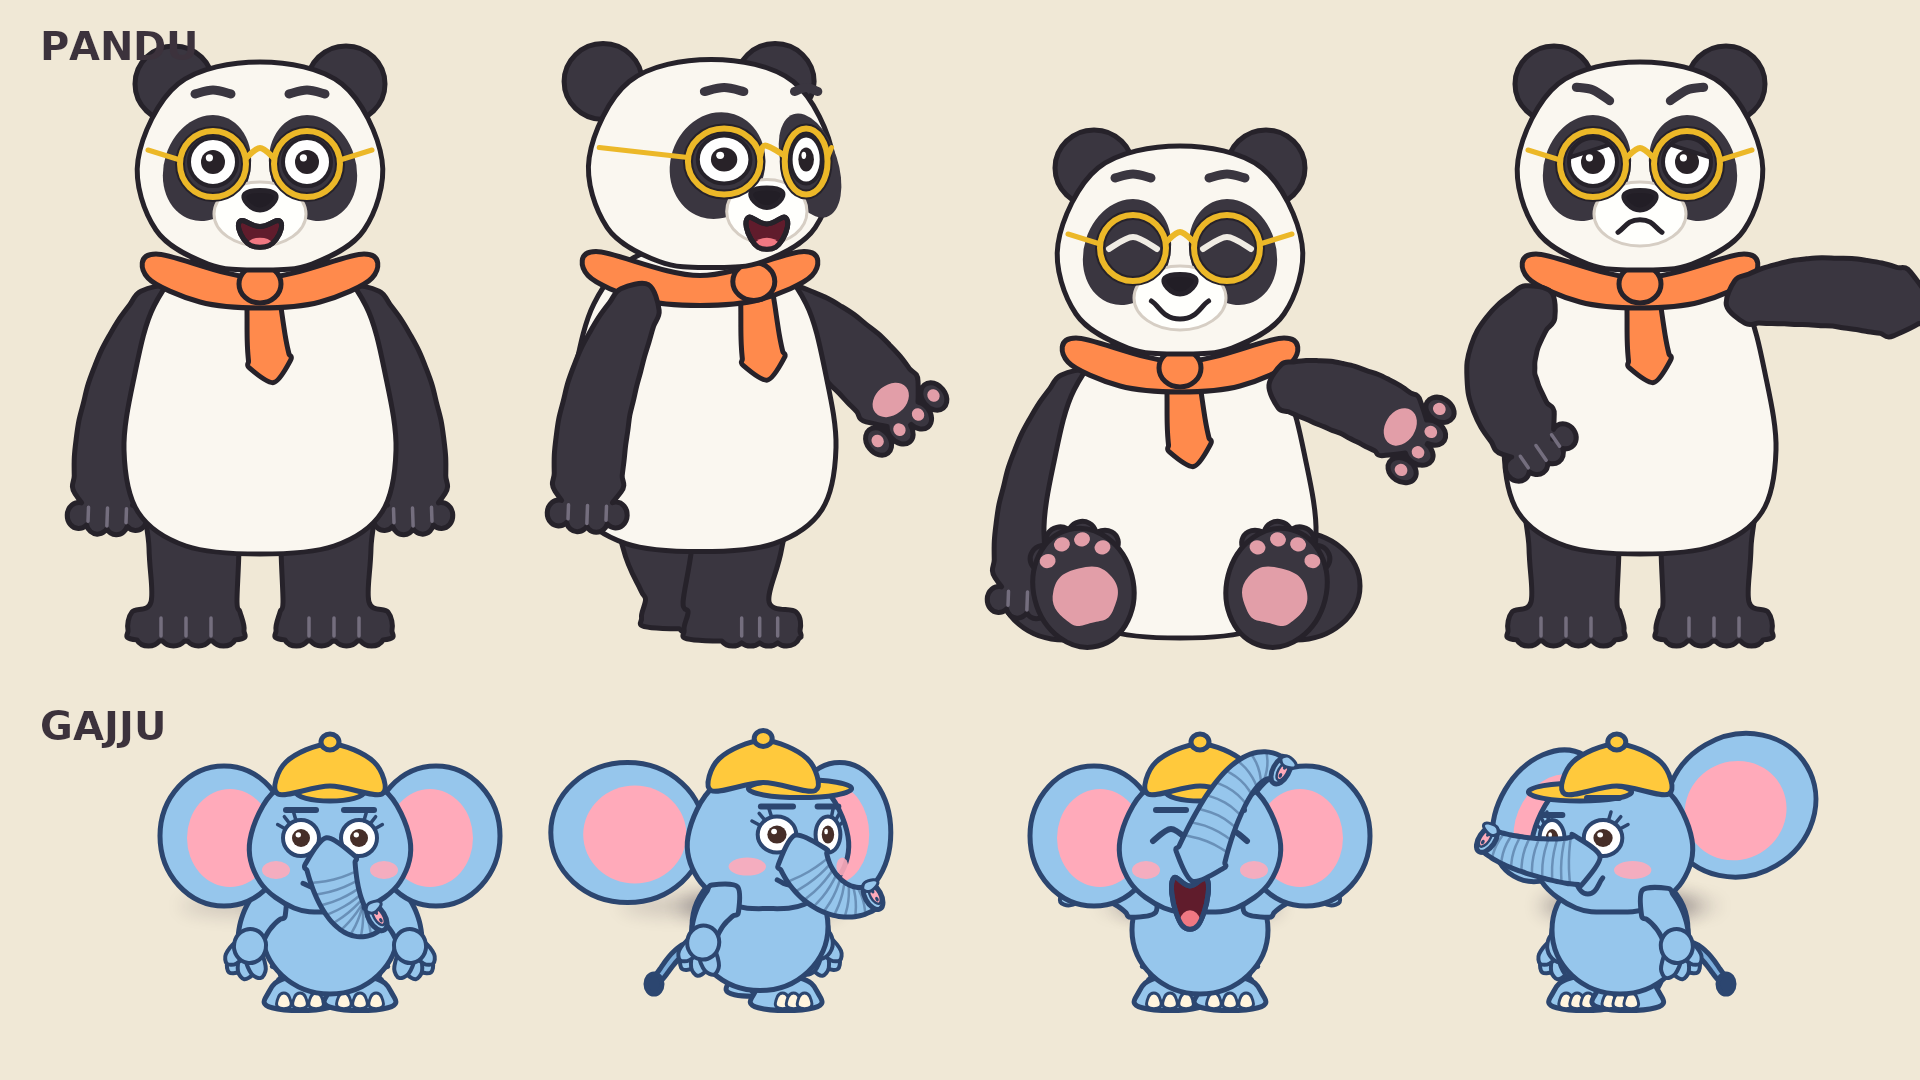
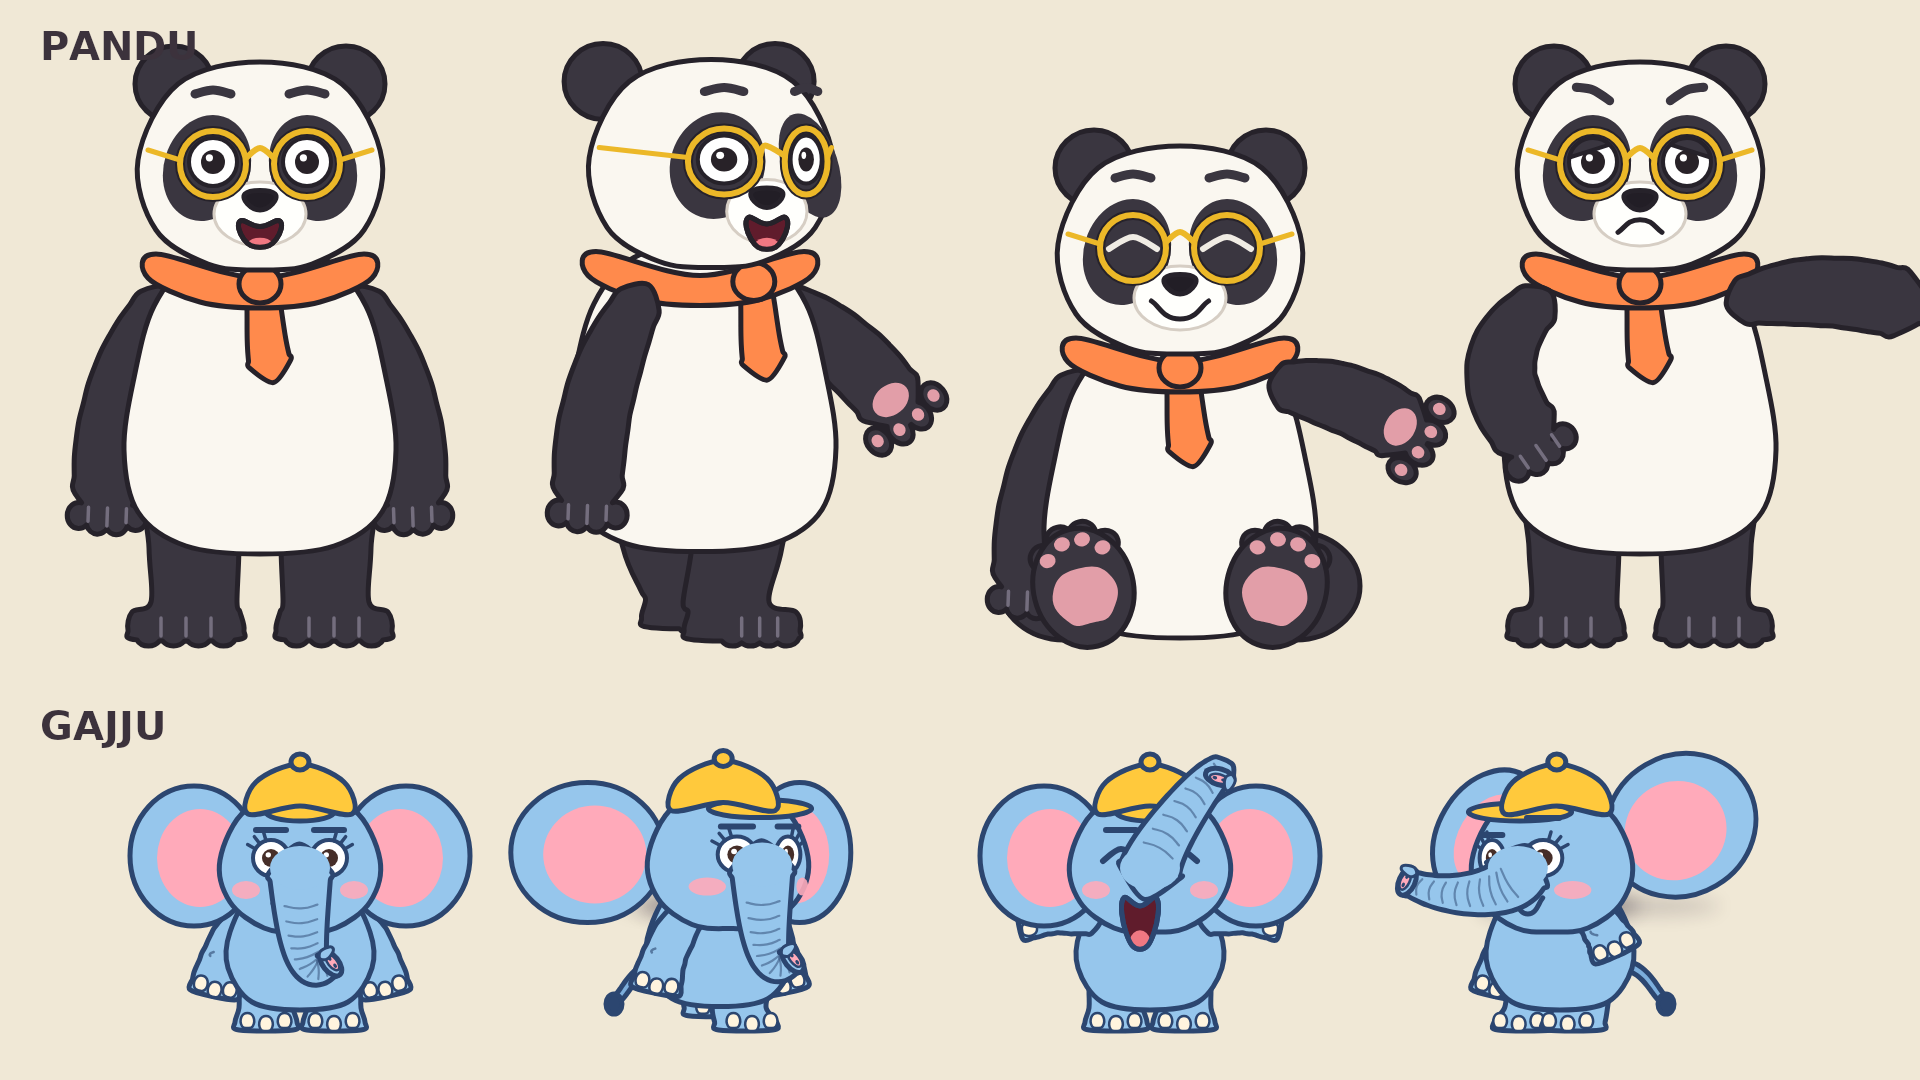
toon-slapstick: Gajju with a natural trunk and elephant feet
The trunk is thick where it grows out of the face, tapers, and has soft
wrinkles. Front and hind legs are columns ending in round feet with
toenails; the fingers are gone.

Claude-Session: https://claude.ai/code/session_018VuxnBXncPZTi5D3KQ9gYK

Changed region(s): [[0.5, 0.6722, 0.9688, 0.9778], [0.0625, 0.6722, 0.4688, 0.9778]]

diff --git a/toon-slapstick/engine/chars.py b/toon-slapstick/engine/chars.py
@@ -383,28 +383,64 @@ class Gajju(Character):
     PINK = (255, 170, 186)
     CAP = (255, 201, 60)
     NAIL = (255, 244, 222)
-    POSE = dict(Character.POSE, ear=0.0, trunk=(46.0, 58.0), trunk_bend=0.0, trunk_curl=0.5, cap_dy=0.0,
-                bendL=0.2, bendR=0.2)
+    POSE = dict(Character.POSE, ear=0.0, trunk=(30.0, 92.0), trunk_bend=0.0, trunk_curl=0.7, cap_dy=0.0,
+                bendL=0.12, bendR=0.12)
+
+    def _nails(self, g, cx, cy, ang, half, n=3):
+        """Elephants have no fingers: a round foot with a row of toenails along the front edge."""
+        dx, dy = math.cos(ang), math.sin(ang)
+        nx, ny = -dy, dx
+        for k in ([-1, 0, 1] if n == 3 else [-1.5, -0.5, 0.5, 1.5]):
+            px_, py_ = cx + nx * k * half * 0.62, cy + ny * k * half * 0.62
+            back = 2 + 3 * abs(k)
+            nail = smooth([(px_ - nx * 6 - dx * (9 + back), py_ - ny * 6 - dy * (9 + back)), (px_ - nx * 5.5 - dx * back, py_ - ny * 5.5 - dy * back),
+                           (px_ - dx * (back - 2), py_ - dy * (back - 2)), (px_ + nx * 5.5 - dx * back, py_ + ny * 5.5 - dy * back),
+                           (px_ + nx * 6 - dx * (9 + back), py_ + ny * 6 - dy * (9 + back)), (px_ - dx * (13 + back), py_ - dy * (13 + back))], True, 0.7)
+            self._ink(g, nail, self.NAIL, 2.5)
 
     def _arm(self, g, p, side, key):
+        """Front leg: a soft column that hangs from behind the shoulder and ends in a round, nailed foot."""
         face = p['face']
-        sh = (side * 58 * (1 - 0.5 * abs(face)), -108)
-        rest = (side * 22, 44)
+        sh = (side * 54 * (1 - 0.5 * abs(face)), -112)
+        rest = (side * 30, 66)
         off = p[key]
         hand = (sh[0] + rest[0] + off[0], sh[1] + rest[1] + off[1])
-        c = limb(sh, hand, -p['bendL' if side < 0 else 'bendR'] * side, 8)
-        self._ink(g, tube(c, 19, 12, True), self.SKIN)
+        c = limb(sh, hand, -p['bendL' if side < 0 else 'bendR'] * side, 12)
         ang = math.atan2(c[-1][1] - c[-3][1], c[-1][0] - c[-3][0])
         dx, dy = math.cos(ang), math.sin(ang)
-        for k in (-1, 0, 1):                                                                               # three stubby fingers
-            a1 = ang + k * 0.5 * side
-            fb = (hand[0] + math.cos(a1) * 11, hand[1] + math.sin(a1) * 11)
-            ft = (hand[0] + math.cos(a1) * 27, hand[1] + math.sin(a1) * 27)
-            self._ink(g, tube([fb, ft], 8.5, 7.5), self.SKIN, 4)
-        ta = ang - 1.2 * side
-        self._ink(g, tube([(hand[0] + math.cos(ta) * 9, hand[1] + math.sin(ta) * 9), (hand[0] + math.cos(ta + 0.4 * side) * 23, hand[1] + math.sin(ta + 0.4 * side) * 23)], 8, 7), self.SKIN, 4)
-        self._ink(g, oval(hand[0], hand[1], 17, 16, math.degrees(ang)), self.SKIN, 4)                         # palm
+        prof = [16, 18, 19, 20, 21, 21, 21, 21, 22, 22, 23, 24, 24]
+        L, R = [], []
+        for i, q in enumerate(c):
+            a0, a1 = c[max(i - 1, 0)], c[min(i + 1, 12)]
+            d = math.hypot(a1[0] - a0[0], a1[1] - a0[1]) or 1
+            n = (-(a1[1] - a0[1]) / d, (a1[0] - a0[0]) / d)
+            L.append((q[0] + n[0] * prof[i], q[1] + n[1] * prof[i])); R.append((q[0] - n[0] * prof[i], q[1] - n[1] * prof[i]))
+        end = (hand[0] + dx * 13, hand[1] + dy * 13)
+        shape = smooth(L + [(L[-1][0] + dx * 11, L[-1][1] + dy * 11), end, (R[-1][0] + dx * 11, R[-1][1] + dy * 11)] + R[::-1] + [(sh[0] - (c[1][0] - sh[0]), sh[1] - (c[1][1] - sh[1]))], True, 0.5)
+        self._ink(g, shape, self.SKIN)
+        self._nails(g, end[0], end[1], ang, 24)
+        q = c[7]                                           # one soft wrinkle at the wrist
+        self._ink(g, poly(arc_pts(q[0], q[1], 15, 4, math.degrees(ang) + 60, math.degrees(ang) + 120, 4), False), None, 2.5, a=0.6)
         self.anchors['handL' if side < 0 else 'handR'] = g.pt(*hand)
+
+    def _hindlegs(self, g, p):
+        st, amp, face = p['step'], p['stride'], p['face']
+        for i, hx0 in enumerate((-34, 34)):
+            ph = 2 * math.pi * (st + i * 0.5)
+            key = 'footL' if i == 0 else 'footR'
+            dx = amp * math.cos(ph) + p[key][0]
+            lift = max(0.0, math.sin(ph)) * amp * 0.5 - p[key][1]
+            side = -1 if i == 0 else 1
+            hx = hx0 * (1 - 0.35 * abs(face))
+            fx, fy = hx + dx + face * 5, -lift
+            fo = face * 8
+            k = (fx - hx) * 0.5
+            leg = smooth([(hx - 27, -74), (hx + 27, -74), (hx + 27 + k, -40), (fx + 27, fy - 22),
+                          (fx + 31 + fo, fy - 8), (fx + 27 + fo, fy), (fx - 27 + fo, fy), (fx - 31 + fo, fy - 8),
+                          (fx - 27, fy - 22), (hx - 27 + k, -40)], True, 0.5)
+            self._ink(g, leg, self.SKIN)
+            self._nails(g, fx + fo + face * 8, fy + 1, math.pi / 2, 30)
+            self._ink(g, poly(arc_pts(fx - k * 0.4, fy - 34, 17, 4, 20, 160, 6), False), None, 2.5, a=0.6)
 
     def _ear(self, g, p, s):
         flap = p['ear']
@@ -423,14 +459,24 @@ class Gajju(Character):
             tl = bez((tdir * 52, -64), (tdir * 84, -70), (tdir * 92, -40), (tdir * 104, -30), 8)
             self._ink(g, tube(tl, 5, 4), self.SKIN_D)
             self._ink(g, oval(tdir * 106, -26, 8, 10), self.INK)
-        self._legs(g, p, [(-30, -52), (30, -52)], -15, 31, 17, 23, self.SKIN, toes=self.NAIL)
+        if p['wheel'] > 0.5:
+            self._legs(g, p, [(-30, -52), (30, -52)], -15, 31, 17, 23, self.SKIN, toes=self.NAIL)
+        else:
+            self._hindlegs(g, p)
         g.push(0, bob)
-        far, near = ('armR', 'armL') if face > 0.35 else ('armL', 'armR') if face < -0.35 else (None, None)
-        if far:
-            self._arm(g, p, 1 if far == 'armR' else -1, far)
-        self._ink(g, oval(0, -80, 68, 64), self.SKIN)
-        if not far:
-            self._arm(g, p, -1, 'armL'); self._arm(g, p, 1, 'armR')
+        def in_front(key, side):
+            if abs(face) > 0.35:
+                return (side > 0) != (face > 0)
+            off = p[key]
+            return math.hypot(off[0], off[1]) > 34
+        order = [('armL', -1), ('armR', 1)]
+        for key, side in order:                            # front legs hang from behind the body
+            if not in_front(key, side):
+                self._arm(g, p, side, key)
+        self._ink(g, smooth([(0, -146), (46, -138), (70, -98), (72, -62), (48, -28), (0, -20), (-48, -28), (-72, -62), (-70, -98), (-46, -138)], True, 0.5), self.SKIN)
+        for key, side in order:
+            if in_front(key, side):
+                self._arm(g, p, side, key)
         # ---- head
         g.push(p['head_dx'] + face * 10, -164 + p['head_dy'], p['head_rot'], p['head_sx'], p['head_sy'], 0, 60)
         a = p['yaw'] * 0.62
@@ -470,26 +516,28 @@ class Gajju(Character):
             t = math.radians(p['brow_ang']) * s
             d = (math.cos(t) * 15 * ws, -math.sin(t) * 15)
             self._ink(g, poly([(x - d[0], -36 + py - lift - d[1]), (x + d[0], -36 + py - lift + d[1])], False), None, 6)
-        # trunk
+        # trunk: thick where it grows out of the face, tapering, with soft wrinkles across the front
         tx, ty = p['trunk']
-        root = (tx0, 14 + py)
+        root = (tx0, 6 + py)
         tip = (root[0] + tx, root[1] + ty)
         L = math.hypot(tx, ty) or 1
         nx, ny = -ty / L, tx / L
         b = p['trunk_bend']
-        c1 = (root[0] + tx * 0.15 + nx * b * L, root[1] + ty * 0.55 + ny * b * L + 14)
+        c1 = (root[0] + tx * 0.05 + nx * b * L, root[1] + ty * 0.5 + ny * b * L + 18)
         cu = p['trunk_curl']
-        c2 = (tip[0] - tx * 0.25 + nx * cu * 26 * (1 if tx >= 0 else -1), tip[1] + cu * 30)
+        sgn = 1 if tx >= 0 else -1
+        c2 = (tip[0] - tx * 0.2 - sgn * cu * 30, tip[1] + cu * 34)
         cl = bez(root, c1, c2, tip, 22)
-        R0, R1 = 25, 12
+        R0, R1 = 31, 12
         self._ink(g, tube(cl, R0, R1, True, tip=False), self.SKIN)
-        for i in range(3, 21, 2):   # rings all the way down, like a real trunk
+        self._ink(g, oval(root[0], root[1] - 4, 30, 22), self.SKIN, 0, False)       # the trunk grows out of the face: no seam
+        for i in range(4, 21, 2):
             q, q2 = cl[i], cl[i + 1]
             d = math.hypot(q2[0] - q[0], q2[1] - q[1]) or 1
             n = (-(q2[1] - q[1]) / d, (q2[0] - q[0]) / d)
             r = R0 + (R1 - R0) * i / 22
-            mid = (q[0] + (q2[0] - q[0]) * 0.35, q[1] + (q2[1] - q[1]) * 0.35)
-            self._ink(g, smooth([(q[0] + n[0] * r * 0.92, q[1] + n[1] * r * 0.92), mid, (q[0] - n[0] * r * 0.92, q[1] - n[1] * r * 0.92)], False, 0.9), None, 2.5, a=0.42)
+            mid = (q[0] + (q2[0] - q[0]) * 0.4, q[1] + (q2[1] - q[1]) * 0.4)
+            self._ink(g, smooth([(q[0] + n[0] * r * 0.6, q[1] + n[1] * r * 0.6), mid, (q[0] - n[0] * r * 0.6, q[1] - n[1] * r * 0.6)], False, 0.9), None, 2.2, a=0.5)
         # flared tip with the opening, two nostrils and the little gripping finger
         q, q2 = cl[-2], cl[-1]
         d = math.hypot(q2[0] - q[0], q2[1] - q[1]) or 1
@@ -506,8 +554,6 @@ class Gajju(Character):
         self.anchors['head'] = g.pt(0, 0)
         self.anchors['top'] = g.pt(0, -100)
         g.pop()
-        if far:
-            self._arm(g, p, 1 if near == 'armR' else -1, near)
         self.anchors['belly'] = g.pt(0, -80)
         g.pop()
         self.end(g)
